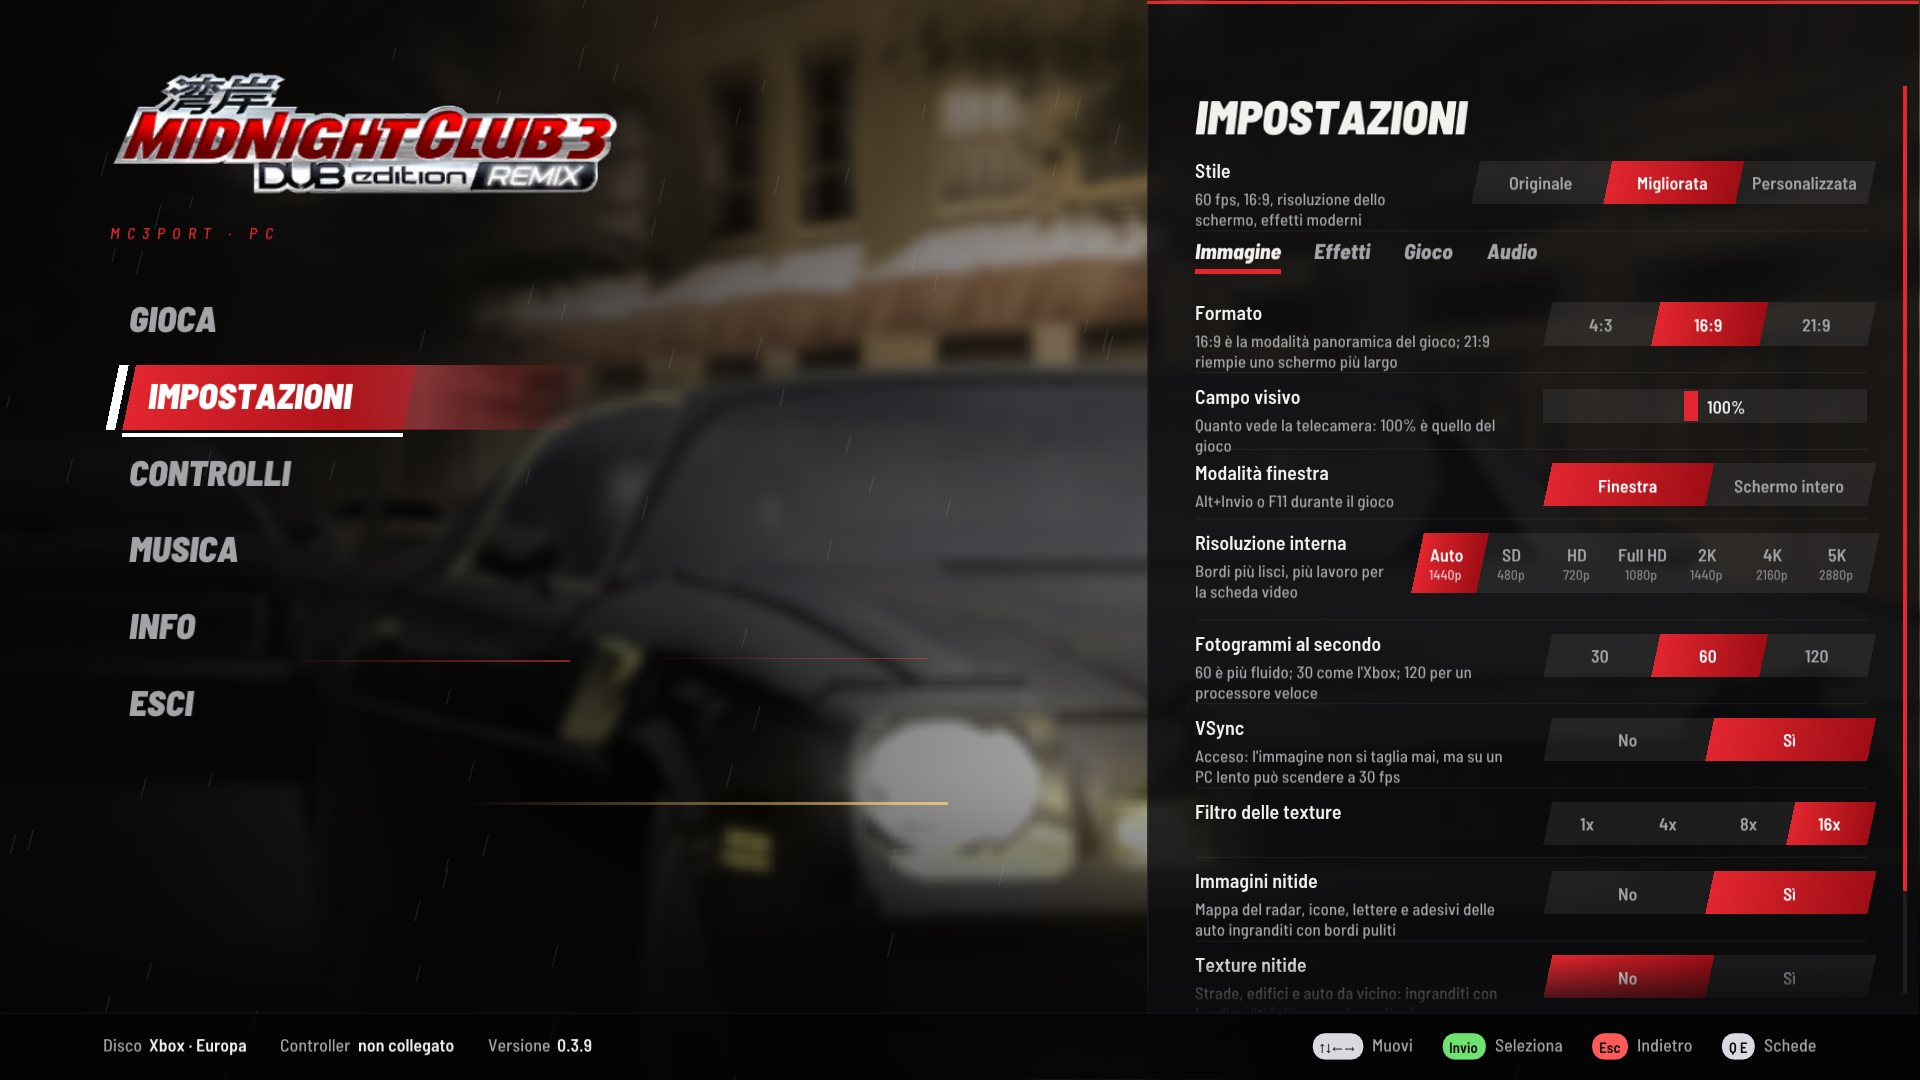
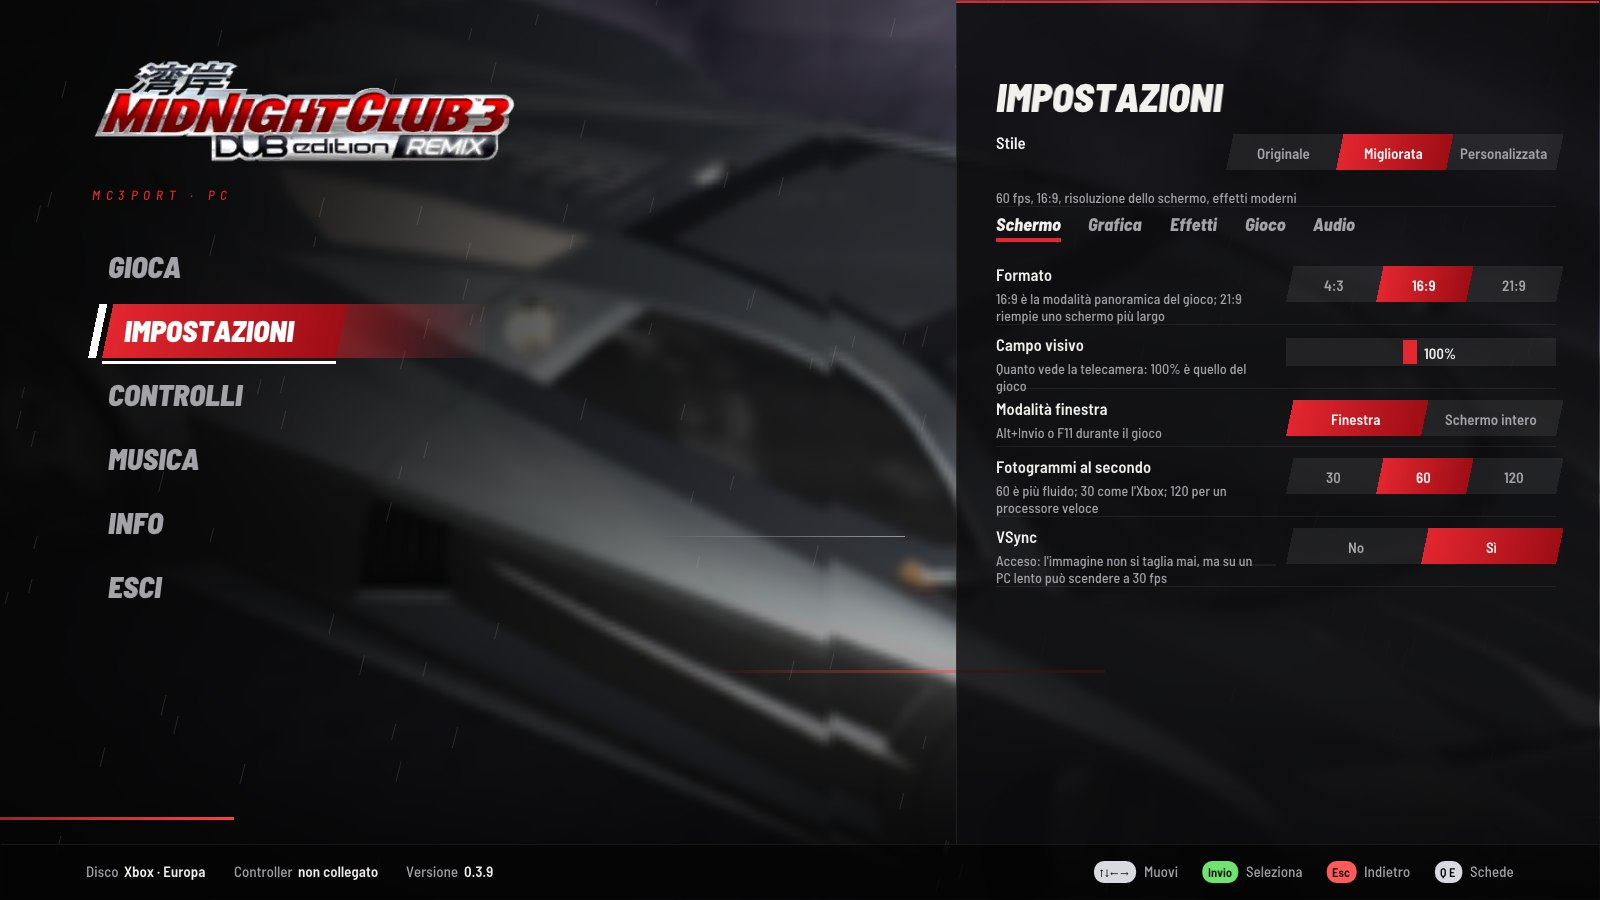
0.3.10 · Launcher: Settings in five shorter tabs, Display and Graphics instead of Picture
- Picture held ten rows, longer than a 720p window: Display (aspect ratio, field of view, window, frames per second, VSync) and Graphics (internal resolution, texture filter, sharp pictures, sharp textures, vertices on the graphics card); Q and E, LB and RB go round five tabs

- README: the launcher's screenshots retaken (1600x900), the settings one on the Display tab

diff --git a/src/pc/launcher_ui.cpp b/src/pc/launcher_ui.cpp
@@ -76,7 +76,7 @@ struct Texts {
     const char *play, *settings, *controls, *about, *quit;
     const char *ready, *ready_lead, *disc_ok, *disc_none, *disc_none_sub, *change, *choose_iso;
     const char *pad_on, *pad_on_sub, *pad_off, *pad_off_sub, *edit;
-    const char *tab_picture, *tab_effects, *tab_game, *tab_audio;
+    const char *tab_display, *tab_graphics, *tab_effects, *tab_game, *tab_audio;
     const char *game_language, *game_language_sub, *like_windows, *fps, *fps_sub, *volume, *music_volume, *music_volume_sub;
     const char *aspect, *aspect_sub, *field_of_view, *field_of_view_sub, *window_mode, *window_mode_sub, *windowed, *fullscreen;
     const char *style, *original_sub, *enhanced_sub, *custom_sub, *original, *enhanced, *custom, *scale, *scale_sub;
@@ -117,7 +117,7 @@ const Texts kEnglish = {
     "READY TO RACE", "The streets of San Diego, Atlanta, Detroit and Tokyo are waiting.", "Disc verified",
     "No disc chosen", "Choose the disc image (ISO) of your Xbox copy (Europe or USA).", "Change", "Choose the ISO",
     "Controller connected", "Xbox, PlayStation and other pads", "No controller", "The keyboard works too", "Edit",
-    "Picture", "Effects", "Game", "Audio",
+    "Display", "Graphics", "Effects", "Game", "Audio",
     "Game language", "The game's text and speech", "Like Windows", "Frames per second", "60 is smoother; 30 like the Xbox; 120 for a fast processor",
     "Game volume", "Launcher music", "This screen's background music; 0 turns it off",
     "Aspect ratio", "16:9 is the game's own widescreen mode; 21:9 fills a wider screen",
@@ -189,7 +189,7 @@ const Texts kItalian = {
     "PRONTO A CORRERE", "Le strade di San Diego, Atlanta, Detroit e Tokyo ti aspettano.", "Disco verificato",
     "Nessun disco scelto", "Scegli l'immagine del disco (ISO) della tua copia Xbox (Europa o USA).", "Cambia", "Scegli l'ISO",
     "Controller collegato", "Controller Xbox, PlayStation e altri", "Nessun controller", "Anche la tastiera funziona", "Modifica",
-    "Immagine", "Effetti", "Gioco", "Audio",
+    "Schermo", "Grafica", "Effetti", "Gioco", "Audio",
     "Lingua del gioco", "Testi e voci del gioco", "Come Windows", "Fotogrammi al secondo",
     "60 \xC3\xA8 pi\xC3\xB9 fluido; 30 come l'Xbox; 120 per un processore veloce", "Volume del gioco", "Musica del launcher",
     "La musica di sottofondo di questa schermata; 0 la spegne",
@@ -267,7 +267,7 @@ const Texts kPortuguese = {
     "PRONTO PARA CORRER", "As ruas de San Diego, Atlanta, Detroit e Tóquio esperam por você.", "Disco verificado",
     "Nenhum disco escolhido", "Escolha a imagem do disco (ISO) da sua cópia de Xbox (Europa ou EUA).", "Trocar", "Escolher a ISO",
     "Controle conectado", "Xbox, PlayStation e outros controles", "Nenhum controle", "O teclado também funciona", "Editar",
-    "Imagem", "Efeitos", "Jogo", "Áudio",
+    "Tela", "Gráficos", "Efeitos", "Jogo", "Áudio",
     "Idioma do jogo", "Textos e vozes do jogo (não há português)", "Como o Windows", "Quadros por segundo", "60 é mais fluido; 30 como no Xbox; 120 para um processador rápido",
     "Volume do jogo", "Música do launcher", "A música de fundo desta tela; 0 desliga",
     "Proporção", "16:9 é o modo widescreen do próprio jogo; 21:9 preenche uma tela mais larga",
@@ -340,7 +340,7 @@ const Texts kSpanish = {
     "LISTO PARA CORRER", "Las calles de San Diego, Atlanta, Detroit y Tokio te esperan.", "Disco verificado",
     "Ningún disco elegido", "Elige la imagen del disco (ISO) de tu copia de Xbox (Europa o EE. UU.).", "Cambiar", "Elegir la ISO",
     "Mando conectado", "Mandos de Xbox, PlayStation y otros", "Ningún mando", "El teclado también funciona", "Editar",
-    "Imagen", "Efectos", "Juego", "Audio",
+    "Pantalla", "Gráficos", "Efectos", "Juego", "Audio",
     "Idioma del juego", "Textos y voces del juego", "Como Windows", "Fotogramas por segundo", "60 es más fluido; 30 como en Xbox; 120 para un procesador rápido",
     "Volumen del juego", "Música del launcher", "La música de fondo de esta pantalla; 0 la apaga",
     "Relación de aspecto", "16:9 es el modo panorámico del propio juego; 21:9 llena una pantalla más ancha",
@@ -2145,11 +2145,11 @@ void Launcher::page_settings() {
     title(t.settings);
     // LB and RB (L1 and R1), Q and E: the previous and next tab.
     if (rebinding_ < 0 && !ImGui::IsPopupOpen("", ImGuiPopupFlags_AnyPopupId)) {
-        const int step = key_pressed({ImGuiKey_GamepadL1, ImGuiKey_Q, ImGuiKey_PageUp})     ? 3
+        const int step = key_pressed({ImGuiKey_GamepadL1, ImGuiKey_Q, ImGuiKey_PageUp})     ? 4
                          : key_pressed({ImGuiKey_GamepadR1, ImGuiKey_E, ImGuiKey_PageDown}) ? 1
                                                                                             : 0;
         if (step) {
-            settings_tab_ = (settings_tab_ + step) % 4;
+            settings_tab_ = (settings_tab_ + step) % 5;
             if (!menu_has_focus_) focus_panel_ = true;
         }
     }
@@ -2158,8 +2158,9 @@ void Launcher::page_settings() {
     if (to_tabs) focus_panel_ = false;
     style_row();
     if (to_tabs) focus_panel_ = true;
-    const char* tab_labels[] = {t.tab_picture, t.tab_effects, t.tab_game, t.tab_audio};
-    tabs(tab_labels, 4, &settings_tab_);
+    // Five short tabs: the screen's and the graphics' rows were one tab, longer than a 720p window.
+    const char* tab_labels[] = {t.tab_display, t.tab_graphics, t.tab_effects, t.tab_game, t.tab_audio};
+    tabs(tab_labels, 5, &settings_tab_);
     if (settings_tab_ != tab_before) tab_since_ = now;
     // The tab's content comes in like a page: fading, from a little to the right.
     const float tab_enter = ease_out((now - tab_since_) / 0.3f);
@@ -2184,6 +2185,15 @@ void Launcher::page_settings() {
             set_setting("fullscreen", static_cast<float>(mode));
             nv2a_set_full_screen(mode != 0);
         }
+        row(t.fps, t.fps_sub, true);
+        const char* rates[] = {"30", "60", "120"};
+        static const float kRates[] = {30, 60, 120};
+        int rate = setting("frame_rate") >= 120 ? 2 : setting("frame_rate") >= 60 ? 1 : 0;
+        if (segmented("##fps", rates, 3, &rate)) set_setting("frame_rate", kRates[rate]);
+        row(t.vsync, t.vsync_sub, true);
+        int vsync = setting("vsync") != 0 ? 1 : 0;
+        if (segmented("##vsync", toggle, 2, &vsync)) set_setting("vsync", static_cast<float>(vsync));
+    } else if (settings_tab_ == 1) {
         row(t.scale, t.scale_sub, true);
         MONITORINFO monitor{sizeof(MONITORINFO)};
         GetMonitorInfoW(MonitorFromWindow(window_, MONITOR_DEFAULTTOPRIMARY), &monitor);
@@ -2201,14 +2211,6 @@ void Launcher::page_settings() {
         if (combo("##scale", names, kResolutionCount, &resolution)) {
             set_setting("render_scale", kResolutions[resolution].scale);
         }
-        row(t.fps, t.fps_sub, true);
-        const char* rates[] = {"30", "60", "120"};
-        static const float kRates[] = {30, 60, 120};
-        int rate = setting("frame_rate") >= 120 ? 2 : setting("frame_rate") >= 60 ? 1 : 0;
-        if (segmented("##fps", rates, 3, &rate)) set_setting("frame_rate", kRates[rate]);
-        row(t.vsync, t.vsync_sub, true);
-        int vsync = setting("vsync") != 0 ? 1 : 0;
-        if (segmented("##vsync", toggle, 2, &vsync)) set_setting("vsync", static_cast<float>(vsync));
         row(t.anisotropy, nullptr, true);
         const char* levels[] = {"1x", "4x", "8x", "16x"};
         static const float kLevels[] = {1, 4, 8, 16};
@@ -2226,7 +2228,7 @@ void Launcher::page_settings() {
         row(t.gpu_vertices, t.gpu_vertices_sub);
         int gpu = setting("gpu_vertices") != 0 ? 1 : 0;
         if (segmented("##gpu", toggle, 2, &gpu)) set_setting("gpu_vertices", static_cast<float>(gpu));
-    } else if (settings_tab_ == 1) {
+    } else if (settings_tab_ == 2) {
         row(t.effects, t.effects_sub);
         int modern = setting("effects") != 0 ? 1 : 0;
         if (segmented("##effects", toggle, 2, &modern)) {
@@ -2259,7 +2261,7 @@ void Launcher::page_settings() {
             }
         }
         cursor_ += px(62);
-    } else if (settings_tab_ == 2) {
+    } else if (settings_tab_ == 3) {
         row(t.game_language, t.game_language_sub, true);
         static const int kLanguages[] = {0, 1, 4, 3, 5, 6};
         const char* names[] = {t.like_windows, "English", "Fran\xC3\xA7" "ais", "Deutsch", "Espa\xC3\xB1ol", "Italiano"};

diff --git a/README.md b/README.md
@@ -55,7 +55,7 @@
 | | |
 |---|---|
 | ![A race in Tokyo, 16:9](docs/screenshots/race-16x9.jpg) | ![The launcher](docs/screenshots/launcher.jpg) |
-| ![Launcher settings: the style above the tabs, then the Picture tab](docs/screenshots/launcher-settings.jpg) | ![Launcher controls: what each button does, rebindable keys](docs/screenshots/launcher-controls.jpg) |
+| ![Launcher settings: the style above the tabs, then the Display tab](docs/screenshots/launcher-settings.jpg) | ![Launcher controls: what each button does, rebindable keys](docs/screenshots/launcher-controls.jpg) |
 
 <sub>The launcher speaks English or Italian, following Windows; these captures come from an Italian Windows. Its logo
 and pictures are read from the player's disc. The game content in the screenshots belongs to its owners.</sub>

diff --git a/CHANGELOG.md b/CHANGELOG.md
@@ -29,6 +29,9 @@
   value now sits beside its grab instead of under it, the rows of a page come in one after another, a light runs round
   Play when the game is ready and along the menu's selected item. The internal resolution is a drop-down list, like
   the game language, instead of seven narrow buttons.
+- **Settings in five shorter tabs**: Picture, with ten rows, is now Display (aspect ratio, field of view, window, frames
+  per second, VSync) and Graphics (internal resolution, texture filter, sharp pictures and textures, vertices on the
+  graphics card), next to Effects, Game and Audio.
 - **The launcher's light trails** run on three planes, the nearer ones lower, thicker and brighter, and come more
   often and faster when the music gets louder.
 
